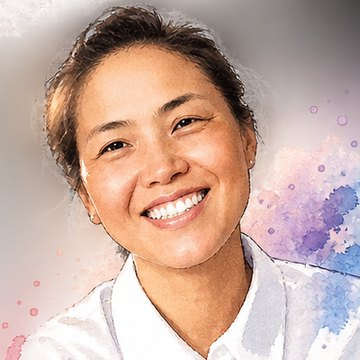
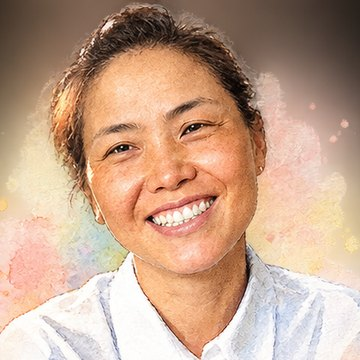
[우리이야기] 다복 명함 사진 첫째 그림 · 약도 가운데 (대표 261123 16:58)
Claude-Session: https://claude.ai/code/session_01Cevunn6AMVprxvQDgfq77K

diff --git a/card/C-1003/index.html b/card/C-1003/index.html
@@ -1,5 +1,5 @@
 <!DOCTYPE html>
-<!-- [우리이야기] 디지털 명함 시안 · card/C-1003 · v4 · 261123 · 사장님 그림 사진(대표 16:54 · 오른쪽 아래 것) · 푸터 = 사랑흐름(링크) · 디지털 명함 · 모바일 홈페이지 제작 · (v3) 사장님 승인(대표 16:36) · 검색 열음 · 명함 보내기 010-4910-3565 · Yu HyeongSuk · (v2) 메뉴 값 · 사진(네이버 플레이스 화면) · 한국어 English 中文 日本語 · 명함 보내기 번호 010-2355-3565(대표 16:26) · 검색용 Restaurant 정보 · 복요리맛집 다복 · 대표 유형숙 · 대표(황규찬) 자료 261123 16:15 · 16:18 · 사장님 허락 확인 전 시안 -->
+<!-- [우리이야기] 디지털 명함 시안 · card/C-1003 · v5 · 261123 · 사진 = 그림 다섯 가운데 첫째(왼쪽 위) · 약도 가운데로(대표 16:58) · (v4) 사장님 그림 사진(대표 16:54 · 오른쪽 아래 것) · 푸터 = 사랑흐름(링크) · 디지털 명함 · 모바일 홈페이지 제작 · (v3) 사장님 승인(대표 16:36) · 검색 열음 · 명함 보내기 010-4910-3565 · Yu HyeongSuk · (v2) 메뉴 값 · 사진(네이버 플레이스 화면) · 한국어 English 中文 日本語 · 명함 보내기 번호 010-2355-3565(대표 16:26) · 검색용 Restaurant 정보 · 복요리맛집 다복 · 대표 유형숙 · 대표(황규찬) 자료 261123 16:15 · 16:18 · 사장님 허락 확인 전 시안 -->
 <html lang="ko"><head><meta charset="utf-8">
 <meta name="viewport" content="width=device-width,initial-scale=1,viewport-fit=cover">
 <title>복요리맛집 다복 · 디지털 명함</title>
@@ -84,7 +84,7 @@ a{color:inherit;text-decoration:none}
 .brand .k{color:#1E3A6E}
 .svc span.p{color:var(--sub);font-size:13.5px;margin-left:6px}
 .note{margin:14px 0 0;font-size:15px;color:#444;background:#FBF8F3;border-left:4px solid var(--or);padding:10px 12px;border-radius:6px}
-.map img{width:100%;display:block}
+.map{padding:14px 16px;text-align:center;background:#fff}.map img{width:100%;max-width:440px;height:auto;display:block;margin:0 auto;border:1px solid var(--line);border-radius:12px}
 .who .av{object-position:center 30%}
 .brand{position:relative;flex-wrap:wrap}
 .lang{order:-1;width:100%;display:flex;justify-content:flex-end;gap:4px;margin:-8px 0 2px;flex-wrap:wrap}
@@ -132,7 +132,7 @@ a{color:inherit;text-decoration:none}
 <div class="qrw"><img src="qr.png" alt="이 명함 QR" width="104" height="104"><p><b data-t="brand">복요리맛집 다복</b><span data-t="tag">파주 프로방스마을<br>정통 복요리</span></p></div>
 </section>
 <div class="gap"></div>
-<div class="map"><a href="https://map.naver.com/p/entry/place/1748542679"><img src="map.jpg" alt="다복 오시는 길 · 파주시 탄현면 매봉길 17-13" width="512" height="248" loading="lazy"></a></div>
+<div class="map"><a href="https://map.naver.com/p/entry/place/1748542679"><img src="map.jpg" alt="다복 오시는 길 · 파주시 탄현면 매봉길 17-13" width="434" height="248" loading="lazy"></a></div>
 <div class="gap"></div>
 <div class="pad"><div class="bund">
 <a href="https://blog.naver.com/basic7106"><svg class="ic" viewBox="0 0 24 24"><path d="M5 19l1-4L16 5l3 3L9 18z"/><path d="M14 7l3 3"/></svg><span data-t="blog">블로그</span></a>
